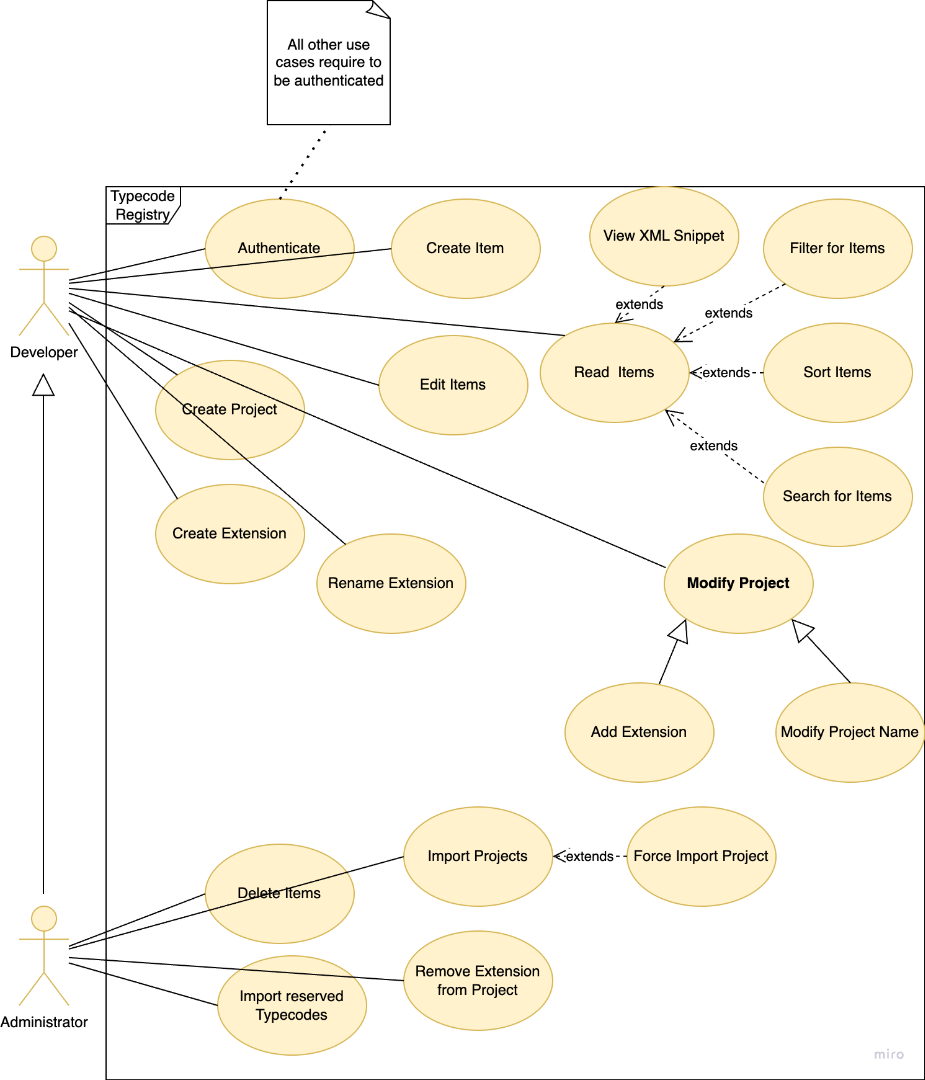
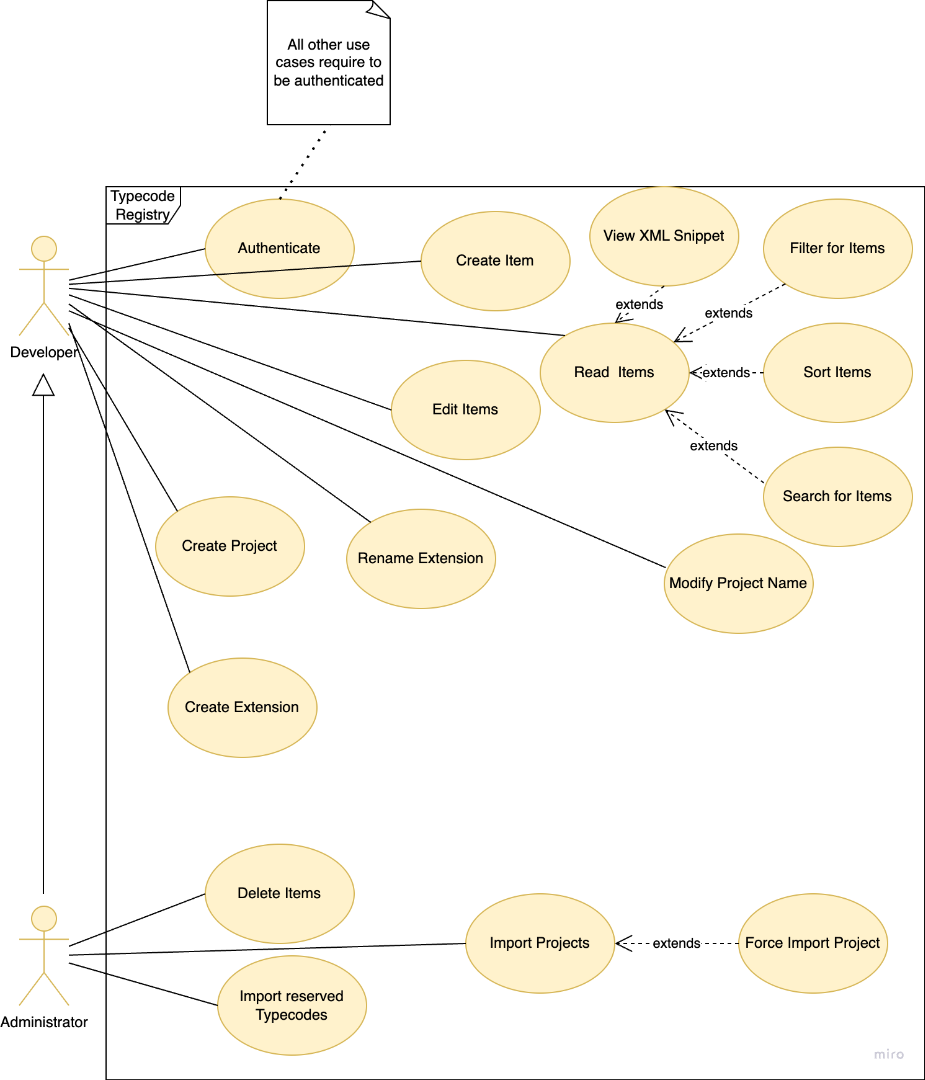
feat: TRN-88 #8 Incorporated changes discussed with the client.

diff --git a/doc/Software Architecture Specification - Typecode Registry/sections/introduction.tex b/doc/Software Architecture Specification - Typecode Registry/sections/introduction.tex
@@ -80,7 +80,7 @@ The following goals have been established for the system:
 
         %% Row Purpse
         \multicolumn{2}{|l|}{\rowcolor{gray!50}\textbf{Purpose}} \\
-        \multicolumn{2}{|l|}{Generation of  a unique Typecode for a Project or an extension.} \\ \hline
+        \multicolumn{2}{|l|}{Generation of an item containing a unique typecode for a project or an extension.} \\ \hline
 
         %% Row Preconditon & Postcondition
         \rowcolor{gray!50}\textbf{Precondition} & \rowcolor{gray!50}\textbf{Postcondition} \\
@@ -89,17 +89,17 @@ The following goals have been established for the system:
         The XML Snippet of the successfully created typecode is displayed on the screen. \\ \hline
 
         \rowcolor{gray!50}\textbf{User Intention} & \rowcolor{gray!50}\textbf{System Response} \\
-        A developer working on a project wants to create a new type needed for the project he is working on without
-        the need to worry about uniqueness.
+        A developer working on a project wants to create a new item needed for the project he is working on without
+        the need to worry about uniqueness of the item's typecode.
          &
-        The system shows a success message and the XML snippet of the created typecode.
-        The system persisted the newly generated typecode in the database.
+        The system shows a success message and the XML snippet of the created item.
+        The system persisted the newly generated item in the database.
         \\ \hline
 
          & \\ \hline
 
         \multicolumn{2}{|l|}{\rowcolor{gray!50}\textbf{Remarks}} \\
-        \multicolumn{2}{|p{1\textwidth}|}{Depending on the purpose of the specific typecode (project related/global) the typecode is generated in a specific range.} \\ \hline
+        \multicolumn{2}{|p{1\textwidth}|}{Depending on the purpose of the specific item (project related/global) the typecode (value of the item) is generated in a specific range.} \\ \hline
     \end{tabular}
     \caption{UC-1: Create an item}
     \label{tab:uc-1_create-an-item}
@@ -321,18 +321,18 @@ The following goals have been established for the system:
 
         %% Row Purpose
         \multicolumn{2}{|l|}{\rowcolor{gray!50}\textbf{Purpose}} \\
-        \multicolumn{2}{|p{1\textwidth}|}{Displayed items can be sorted by name, typecode, table-name, extension and scope. The table is then sorted in alphabetical order forwards or backwards} \\ \hline
+        \multicolumn{2}{|p{1\textwidth}|}{Displayed items can be sorted by name, typecode, table-name, extension and scope.} \\ \hline
 
         %% Row Preconditon & Postcondition
         \rowcolor{gray!50}\textbf{Precondition} & \rowcolor{gray!50}\textbf{Postcondition} \\
-        The developer successfully logged in using his Microsoft Account and clicked on the specific column he wants the item to be sorted by  to sort the items.
+        The developer successfully logged in using his Microsoft Account and clicked on the specific column he wants the item to be sorted by to sort the items.
         &
-        The table displaying the items is sorted according to the specific column selected in alphabetical order.\\ \hline
+        The table displaying the items is sorted according to the specific column. \\ \hline
 
         \rowcolor{gray!50}\textbf{User Intention} & \rowcolor{gray!50}\textbf{System Response} \\
         A developer wants to sort the table by a specific column to order items by that context.
         &
-        The table is sorted by the chosen column in alphabetical order. \\ \hline
+        The table is sorted by the chosen column. \\ \hline
 
         & \\ \hline
 
@@ -462,50 +462,10 @@ The following goals have been established for the system:
     \label{tab:uc-rename-extension}
 \end{table}
 
-\subsubsection{Use Case UC-11: Add shared extension to project}\label{subsubsec:use-case-uc-11:-add-shared-extension-to-project}
-
-\begin{table}[H]
-    \centering
-    \begin{tabular}{|p{0.5\textwidth}|p{0.5\textwidth}|}
-
-        \hline
-        %%% Row  Name
-        \multicolumn{2}{|l|}{\rowcolor{gray!50}\textbf{Name}} \\
-        \multicolumn{2}{|l|}{UC-11 Add shared extension to project} \\ \hline
-
-        %% Row  User Role
-        \multicolumn{2}{|l|}{\rowcolor{gray!50}\textbf{User Role}} \\
-        \multicolumn{2}{|l|}{Developer} \\ \hline
-
-        %% Row Purpose
-        \multicolumn{2}{|l|}{\rowcolor{gray!50}\textbf{Purpose}} \\
-        \multicolumn{2}{|p{1\textwidth}|}{An already existing extension can be added to a project.} \\ \hline
-
-        %% Row Preconditon & Postcondition
-        \rowcolor{gray!50}\textbf{Precondition} & \rowcolor{gray!50}\textbf{Postcondition} \\
-        The developer is successfully logged in using his Microsoft account.
-        A Project already exists and the developers wants to add an already existing extension to that project.
-        &
-        The extension has been added to the Project.\\ \hline
-
-        \rowcolor{gray!50}\textbf{User Intention} & \rowcolor{gray!50}\textbf{System Response} \\
-        The Developer wants to add a shared extension to the project he is working on.
-        &
-        The Project contains the added extension \\ \hline
-
-        & \\ \hline
-
-        \multicolumn{2}{|l|}{\rowcolor{gray!50}\textbf{Remarks}} \\
-        \multicolumn{2}{|p{1\textwidth}|}{None.} \\ \hline
-    \end{tabular}
-    \caption{UC-11: Add shared extension to project.}
-    \label{tab:uc-add-shared-extension-to-project}
-\end{table}
-
 
 %F12 & Modify Project Name & A project which already exists in the system can be renamed. \\ \hline
 
-\subsubsection{Use Case UC-12: Rename Project}\label{subsubsec:use-case-uc-12:-rename-project}
+\subsubsection{Use Case UC-11: Rename Project}\label{subsubsec:use-case-uc-11:-rename-project}
 
 \begin{table}[H]
     \centering
@@ -541,11 +501,11 @@ The following goals have been established for the system:
         \multicolumn{2}{|l|}{\rowcolor{gray!50}\textbf{Remarks}} \\
         \multicolumn{2}{|p{1\textwidth}|}{None.} \\ \hline
     \end{tabular}
-    \caption{UC-12: Rename Project}
+    \caption{UC-11: Rename Project}
     \label{tab:uc-rename-project}
 \end{table}
 
-\subsubsection{Use Case UC-13: Import reserved typecodes}\label{subsubsec:use-case-uc-13:-import-reserved-typecodes}
+\subsubsection{Use Case UC-12: Import reserved typecodes}\label{subsubsec:use-case-uc-12:-import-reserved-typecodes}
 
 \begin{table}[H]
     \centering
@@ -580,11 +540,11 @@ The following goals have been established for the system:
         \multicolumn{2}{|l|}{\rowcolor{gray!50}\textbf{Remarks}} \\
         \multicolumn{2}{|p{1\textwidth}|}{None.} \\ \hline
     \end{tabular}
-    \caption{UC-13: Import reserved typecodes}
+    \caption{UC-12: Import reserved typecodes}
     \label{tab:uc-import-reserved-typecodes}
 \end{table}
 
-\subsubsection{Use Case UC-14: Import projects via XML files}\label{subsubsec:use-case-uc-14:-import-projects-via-xml-files}
+\subsubsection{Use Case UC-13: Import projects via XML files}\label{subsubsec:use-case-uc-13:-import-projects-via-xml-files}
 
 \begin{table}[H]
     \centering
@@ -619,11 +579,11 @@ The following goals have been established for the system:
         \multicolumn{2}{|l|}{\rowcolor{gray!50}\textbf{Remarks}} \\
         \multicolumn{2}{|p{1\textwidth}|}{The systems allows duplicates but marks them as conflicts once they have been imported.} \\ \hline
     \end{tabular}
-    \caption{UC-14: Import projects via XML files}
+    \caption{UC-13: Import projects via XML files}
     \label{tab:uc-import-projects-via-xml-files}
 \end{table}
 
-\subsubsection{Use Case UC-15: Removal of extensions from their projects}\label{subsubsec:use-case-uc-15:-removal-of-extensions-from-their-projects}
+\subsubsection{Use Case UC-14: Login via microsoft account}\label{subsubsec:use-case-uc-14:-login-via-microsoft-account}
 
 \begin{table}[H]
     \centering
@@ -632,46 +592,7 @@ The following goals have been established for the system:
         \hline
         %%% Row  Name
         \multicolumn{2}{|l|}{\rowcolor{gray!50}\textbf{Name}} \\
-        \multicolumn{2}{|l|}{UC-15 Removal of extensions from their projects} \\ \hline
-
-        %% Row  User Role
-        \multicolumn{2}{|l|}{\rowcolor{gray!50}\textbf{User Role}} \\
-        \multicolumn{2}{|l|}{Administrator} \\ \hline
-
-        %% Row Purpose
-        \multicolumn{2}{|l|}{\rowcolor{gray!50}\textbf{Purpose}} \\
-        \multicolumn{2}{|l|}{Administrators can remove extensions from projects.} \\ \hline
-
-        %% Row Preconditon & Postcondition
-        \rowcolor{gray!50}\textbf{Precondition} & \rowcolor{gray!50}\textbf{Postcondition} \\
-        A project exists and has one or more extensions.
-        &
-        The respective extension has been deleted.  \\ \hline
-
-        \rowcolor{gray!50}\textbf{User Intention} & \rowcolor{gray!50}\textbf{System Response} \\
-        An administrator wants to remove an extension from a project.
-        &
-        The client sends a DELETE request to the server and the extension is deleted. \\ \hline
-
-        & \\ \hline
-
-        \multicolumn{2}{|l|}{\rowcolor{gray!50}\textbf{Remarks}} \\
-        \multicolumn{2}{|p{1\textwidth}|}{None.} \\ \hline
-    \end{tabular}
-    \caption{UC-15: Removal of extensions from their projects}
-    \label{tab:uc-removal-of-extensions-from-their-projects}
-\end{table}
-
-\subsubsection{Use Case UC-16: Login via microsoft account}\label{subsubsec:use-case-uc-16:-login-via-microsoft-account}
-
-\begin{table}[H]
-    \centering
-    \begin{tabular}{|p{0.5\textwidth}|p{0.5\textwidth}|}
-
-        \hline
-        %%% Row  Name
-        \multicolumn{2}{|l|}{\rowcolor{gray!50}\textbf{Name}} \\
-        \multicolumn{2}{|l|}{UC-16 Login via microsoft account} \\ \hline
+        \multicolumn{2}{|l|}{UC-14 Login via microsoft account} \\ \hline
 
         %% Row  User Role
         \multicolumn{2}{|l|}{\rowcolor{gray!50}\textbf{User Role}} \\
@@ -697,11 +618,11 @@ The following goals have been established for the system:
         \multicolumn{2}{|l|}{\rowcolor{gray!50}\textbf{Remarks}} \\
         \multicolumn{2}{|p{1\textwidth}|}{Microsoft Entra shall be used for identification.} \\ \hline
     \end{tabular}
-    \caption{UC-16: Login via microsoft account}
+    \caption{UC-14: Login via microsoft account}
     \label{tab:uc-login-via-microsoft-account}
 \end{table}
 
-\subsubsection{Use Case UC-17: Logout}\label{subsubsec:use-case-uc-17:-logout}
+\subsubsection{Use Case UC-15: Logout}\label{subsubsec:use-case-uc-15:-logout}
 
 \begin{table}[H]
     \centering
@@ -736,6 +657,6 @@ The following goals have been established for the system:
         \multicolumn{2}{|l|}{\rowcolor{gray!50}\textbf{Remarks}} \\
         \multicolumn{2}{|p{1\textwidth}|}{None.} \\ \hline
     \end{tabular}
-    \caption{UC-17: Logout}
+    \caption{UC-15: Logout}
     \label{tab:uc-logout}
 \end{table}
